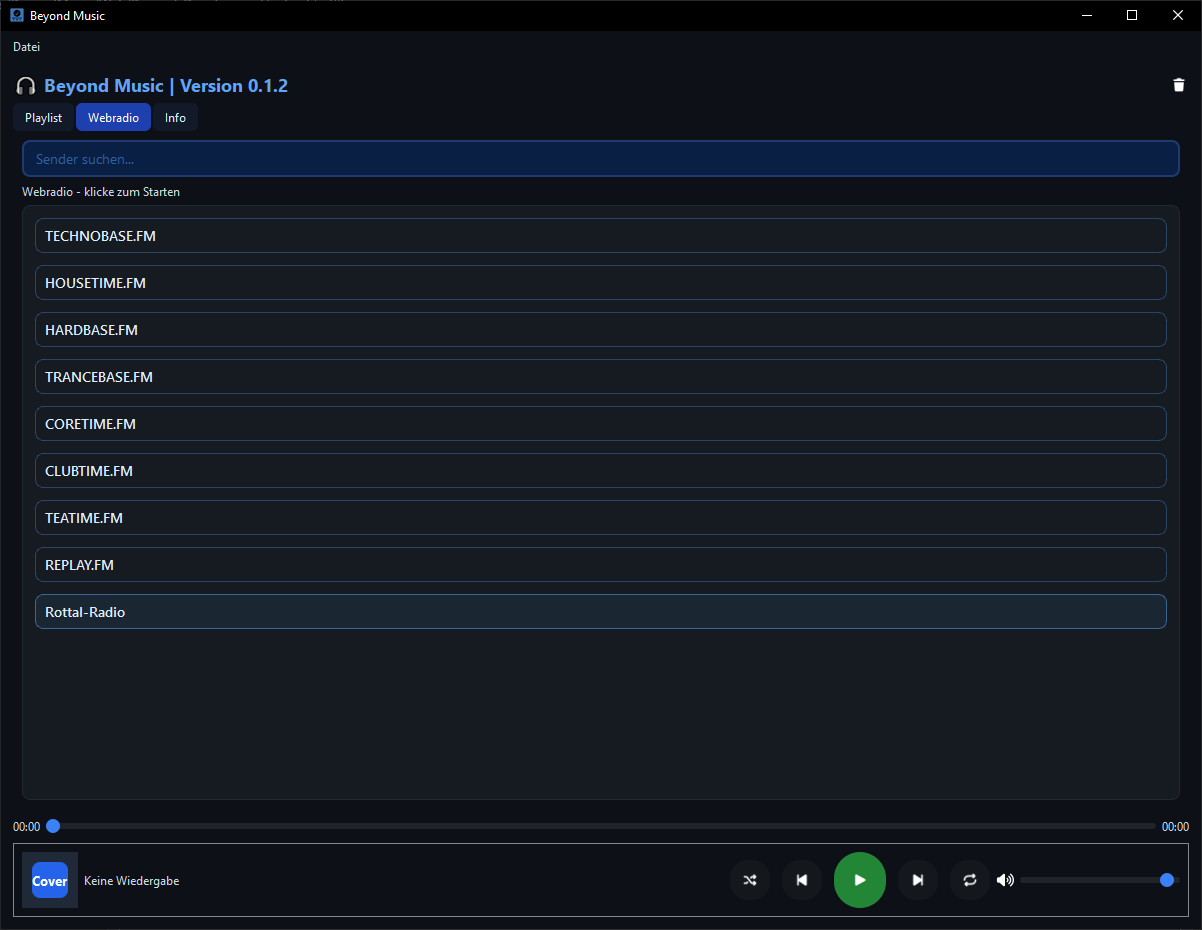
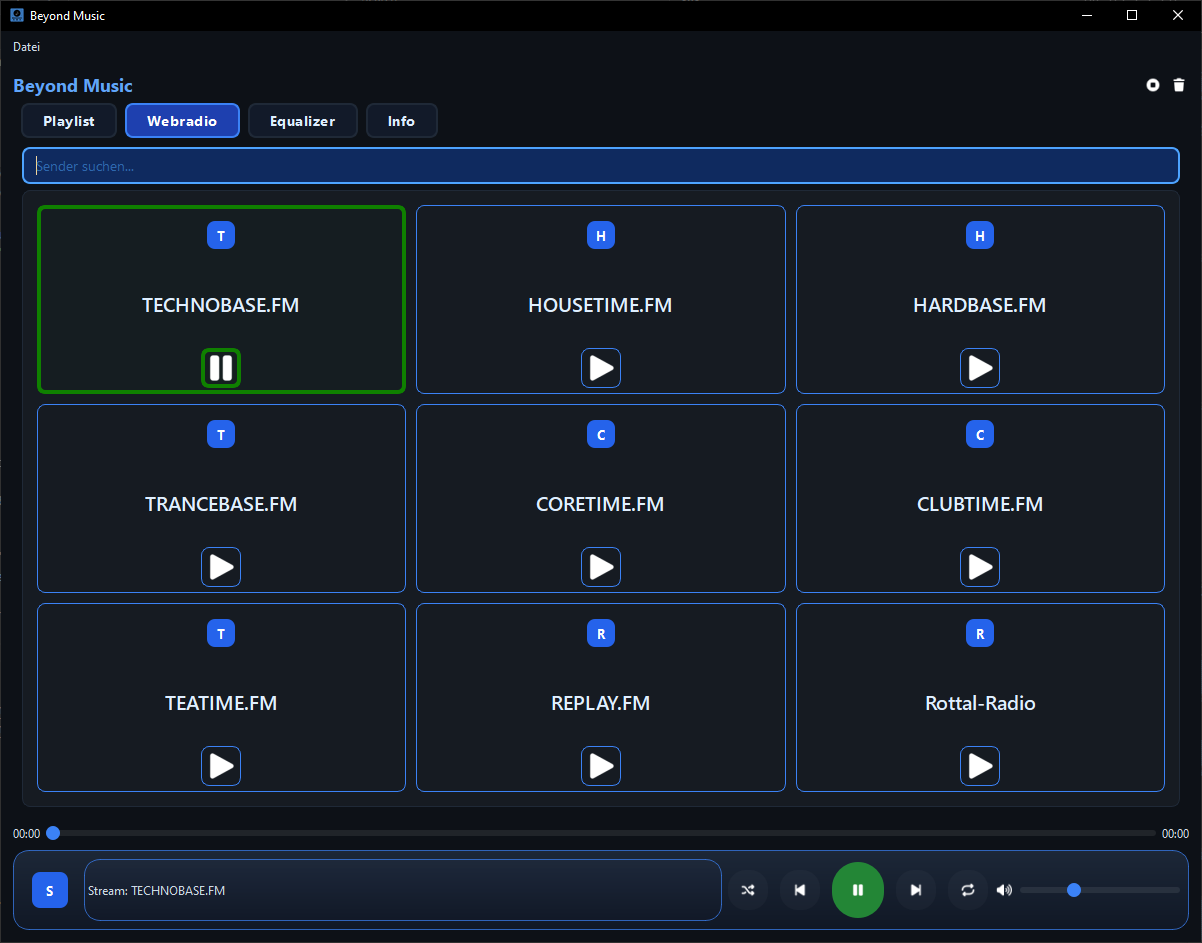
BeyondMusic Update to 0.1.45
This update bring new pictures and some new features to show.

diff --git a/index.html b/index.html
@@ -39,15 +39,17 @@
             </p>
             <div class="cta">
               <a class="btn primary" data-tab="download" href="#download">Jetzt herunterladen</a>
-              <!--<a class="btn" target="_blank" rel="noopener" href="https://github.com/DEIN-USER/DEIN-REPO">GitHub</a>-->
+              <a class="btn" target="_blank" rel="noopener" href="https://github.com/BeyondDevWorks/BDW-BeyondMusic">GitHub</a>
             </div>
-            <div class="meta">Aktuelle Version: <strong id="versionLabel">v0.1.2</strong></div>
+            <div class="meta">Aktuelle Version: <strong id="versionLabel">v0.1.45</strong></div>
           </div>
           <div class="hero-card reveal">
             <div class="mock">
 				<div class="app-gallery" data-app="app1">
 				  <img class="img-klein" src="assets/img/beyondmusic_show2.png" alt="App 1 Screenshot 1" onclick="openLightbox('app1', 0)">
 				  <img class="img-klein" src="assets/img/beyondmusic_show.png" alt="App 1 Screenshot 2" onclick="openLightbox('app1', 1)">
+				  <img class="img-klein" src="assets/img/beyondmusic_show3.png" alt="App 1 Screenshot 3" onclick="openLightbox('app1', 2)">
+				  <img class="img-klein" src="assets/img/beyondmusic_show4.png" alt="App 1 Screenshot 4" onclick="openLightbox('app1', 3)">
 				</div>
 			</div>
           </div>
@@ -177,7 +179,7 @@
             <h3>Beyond Music Setup</h3>
             <p>Empfohlen für die meisten Nutzer. Enthält Uninstaller & Startmenü-Einträge.</p>
             <div class="row">
-              <a class="btn primary" href="https://github.com/BeyondDevWorks/BDW-BeyondMusic/releases/download/v0.1.2/beyond_music_v0.1.2_setup.exe" download>Download .exe</a>
+              <a class="btn primary" href="https://github.com/BeyondDevWorks/BDW-BeyondMusic/releases/download/v0.1.45/beyond_music_v0.1.45_setup.exe" download>Download .exe</a>
             <!--  <button class="btn" id="copyHashBtn" data-copy="#sha256">SHA-256 kopieren</button>-->
             </div>
            <!-- <code id="sha256" class="code">DEINE-PRUEFSUMME-HIER</code>-->
@@ -188,7 +190,7 @@
             <h3>Beyond Music Portable</h3>
             <p>Ohne Installation. Ideal für USB-Sticks und Sandbox-Tests.</p>
             <div class="row">
-              <a class="btn" href="https://github.com/BeyondDevWorks/BDW-BeyondMusic/releases/download/v0.1.2/beyond_music_v0.1.2_portable.zip" download>Download .zip</a>
+              <a class="btn" href="https://github.com/BeyondDevWorks/BDW-BeyondMusic/releases/download/v0.1.45/beyond_music_v0.1.45_portable.zip" download>Download .zip</a>
               <a class="btn ghost" target="_blank" rel="noopener" href="https://github.com/BeyondDevWorks/BDW-BeyondMusic/releases">Alle Releases</a>
             </div>
           </div>

diff --git a/assets/js/script.js b/assets/js/script.js
@@ -61,7 +61,7 @@ if(copyBtn){
 
 
 const appImages = {
-  app1: ['assets/img/beyondmusic_show2.png', 'assets/img/beyondmusic_show.png'],
+  app1: ['assets/img/beyondmusic_show2.png', 'assets/img/beyondmusic_show.png', 'assets/img/beyondmusic_show3.png', 'assets/img/beyondmusic_show4.png',],
   app2: ['app2-1-gross.jpg', 'app2-2-gross.jpg']
 };
 
